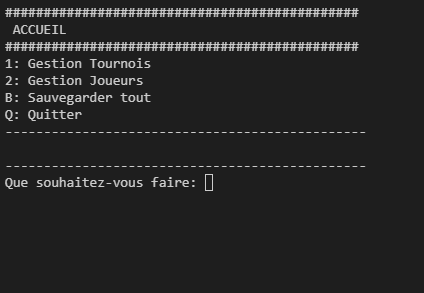
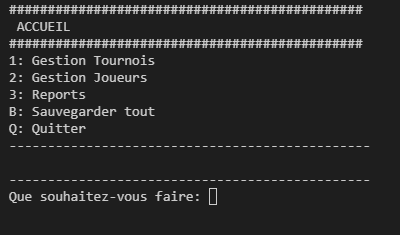
update README with reports menu

diff --git a/README.md b/README.md
@@ -54,7 +54,11 @@ The next round is automatly created
 
 ![](README/main_page.png)
 
+## REPORT
 
+> Manage the Report from __3: Reports__
+
+![](README/report_page.png)
 -----
 > How to generate a flake8 report
 
